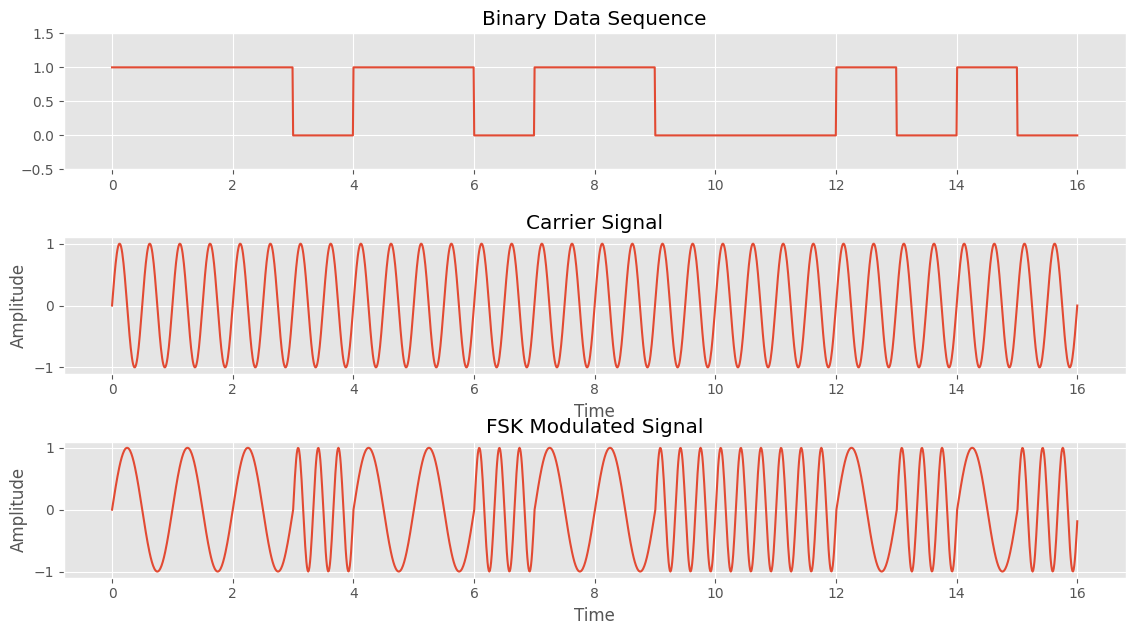
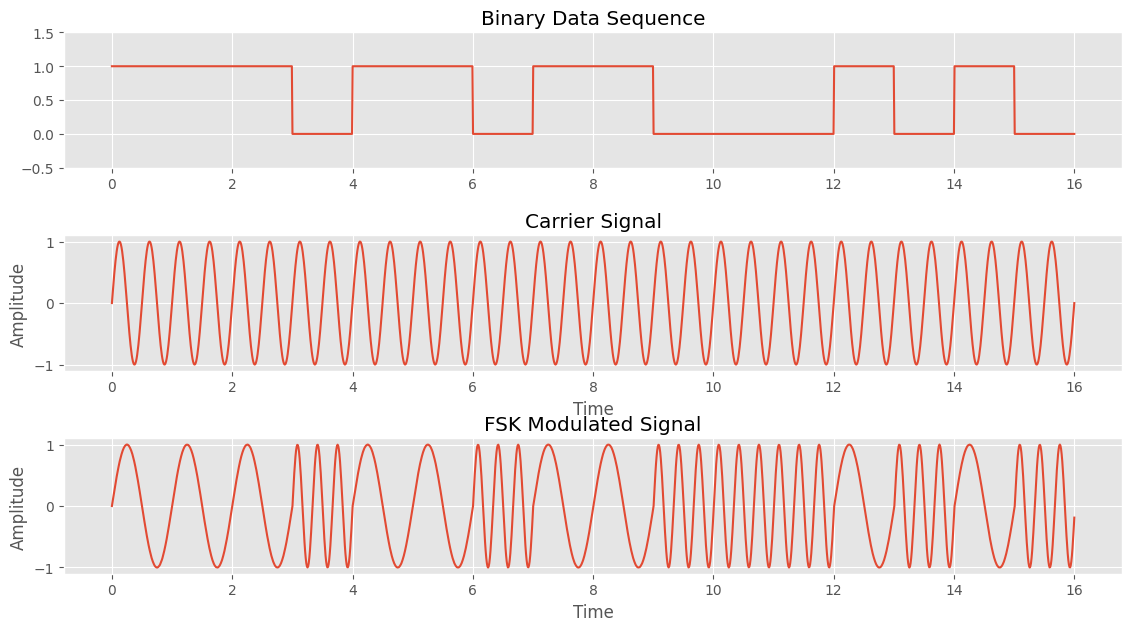
update

diff --git a/Hoang/testFSK.py b/Hoang/testFSK.py
@@ -1,40 +1,35 @@
 import numpy as np
-from scipy import signal
 import matplotlib.pyplot as plt
 
-# Generate binary data sequence
-data = np.random.randint(0, 2, size=1000)
+# Generate a random binary sequence of 16 bits
+binary_seq = np.random.randint(0, 2, 16)
 
-# Define carrier frequencies
-f1 = 5
-f2 = 10
+# Define the frequency for binary 0 and binary 1
+f0 = 5
+f1 = 10
 
-# Generate carrier signals
-fs = 1000 # sample rate
-t = np.arange(0, len(data) / fs, 1/fs)
-carrier1 = np.sin(2 * np.pi * f1 * t)
-carrier2 = np.sin(2 * np.pi * f2 * t)
+# Generate the time vector
+t = np.linspace(0, len(binary_seq), len(binary_seq))
 
-# Perform FSK modulation
-modulated_sig = np.zeros(len(t))
-modulated_sig[data == 0] = carrier1[data == 0]
-modulated_sig[data == 1] = carrier2[data == 1]
+# Generate the FSK signal by multiplying the binary sequence with the appropriate frequency
+fsk_signal = np.zeros(len(binary_seq))
+fsk_signal[binary_seq == 0] = np.sin(2*np.pi*f0*t)
+fsk_signal[binary_seq == 1] = np.sin(2*np.pi*f1*t)
 
-# Add Gaussian noise to the modulated signal
-noise = np.random.normal(0, np.sqrt(10), size=len(modulated_sig))
-noisy_sig = modulated_sig + noise
+# Generate the carrier signal
+carrier_signal = np.sin(2*np.pi*f0*t)
 
-# Perform FSK demodulation
-decision_variables = signal.correlate(noisy_sig, carrier1, mode='same')
-demodulated_data = np.zeros(len(data))
-demodulated_data[decision_variables >= 0] = 0
-demodulated_data[decision_variables < 0] = 1
+# Plot the binary data sequence, carrier signal and FSK modulate signal
+fig, axs = plt.subplots(3, 1, sharex=True, sharey=True)
+axs[0].stem(t, binary_seq, '-o', linefmt='C0')
+axs[0].set_title('Binary data sequence')
+axs[1].plot(t, carrier_signal)
+axs[1].set_title('Carrier signal')
+axs[2].plot(t, fsk_signal)
+axs[2].set_title('FSK modulated signal')
 
-# Plot the results
-plt.figure()
-plt.plot(data, 'b-', label='Original Data')
-plt.plot(demodulated_data, 'r-', label='Demodulated Data')
-plt.xlabel('Sample index')
-plt.ylabel('Data value')
-plt.legend()
+plt.xlabel('Time (s)')
 plt.show()
+
+#save the figure as an image
+plt.savefig("fsk_modulation.png")

diff --git a/Hoang/modulateFSK.py b/Hoang/modulateFSK.py
@@ -1,0 +1,50 @@
+import numpy as np
+import matplotlib.pyplot as plt
+
+# Generate a random binary sequence with length 10
+binary_seq = np.random.randint(0, 2, 10)
+
+# Define the carrier frequency for the 0s and 1s in the sequence
+f0 = 1000
+f1 = 2000
+
+# Define the bit rate
+bit_rate = 10000
+
+# Generate the time vector for the signal
+t = np.linspace(0, len(binary_seq)/bit_rate, len(binary_seq)*bit_rate)
+
+# Initialize an empty signal array
+signal = np.zeros(len(binary_seq)*bit_rate)
+
+# Define the carrier signal
+carrier_signal = np.sin(2*np.pi*f0*t)
+
+# Modulate the binary sequence onto the carrier signal
+for i, bit in enumerate(binary_seq):
+    if bit == 1:
+        carrier_signal[i*bit_rate:(i+1)*bit_rate] = np.sin(2*np.pi*f1*t[i*bit_rate:(i+1)*bit_rate])
+
+# Create a figure with 3 subplots
+fig, (ax1, ax2, ax3) = plt.subplots(3,1, figsize=(8,8))
+
+# Plot the FSK signal
+ax1.plot(t, carrier_signal)
+ax1.set_title('FSK Signal')
+ax1.set_xlabel('Time (s)')
+ax1.set_ylabel('Amplitude')
+
+# Plot the binary data sequence
+ax2.stem(np.arange(10), binary_seq)
+ax2.set_title('Binary Data Sequence')
+ax2.set_xlabel('Time (s)')
+ax2.set_ylabel('Amplitude')
+
+# Plot the carrier signal for 0s
+ax3.plot(t, np.sin(2*np.pi*f0*t))
+ax3.set_title('Carrier Signal for 0s')
+ax3.set_xlabel('Time (s)')
+ax3.set_ylabel('Amplitude')
+
+# Save the plot as an image
+plt.savefig('FSK_signal_with_data_sequence_carrier_3subplots.png')

diff --git a/Hoang/GaussMod-DemodFSK.py b/Hoang/GaussMod-DemodFSK.py
@@ -126,7 +126,7 @@ def main():
     ax3.set_ylabel("Amplitude")
 
     plt.show()
-    fig.savefig('D:\Code\Workspace\Miniproject_CE\mywork\Modulate_fsk.png', bbox_inches='tight')
+    fig.savefig('Modulate_fsk.png', bbox_inches='tight')
 
     fig, (ax1, ax2) = plt.subplots(2, 1, figsize=(15, 8))
     fig.subplots_adjust(hspace=0.5)
@@ -145,7 +145,7 @@ def main():
     ax2.set_ylabel("Amplitude")
 
     plt.show()
-    fig.savefig('D:\Code\Workspace\Miniproject_CE\mywork\Demodulate_fsk.png', bbox_inches='tight')
+    fig.savefig('Demodulate_fsk.png', bbox_inches='tight')
 if __name__ == "__main__":
     main()
 
